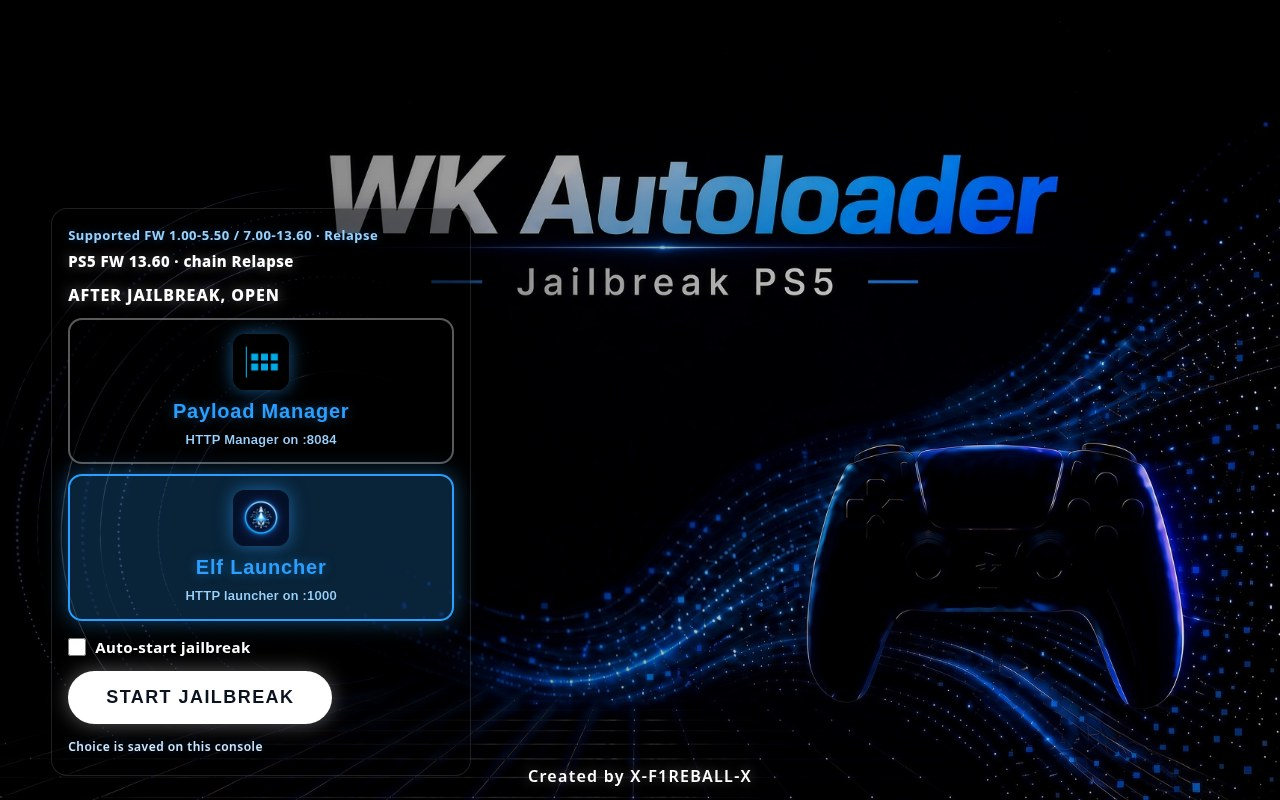
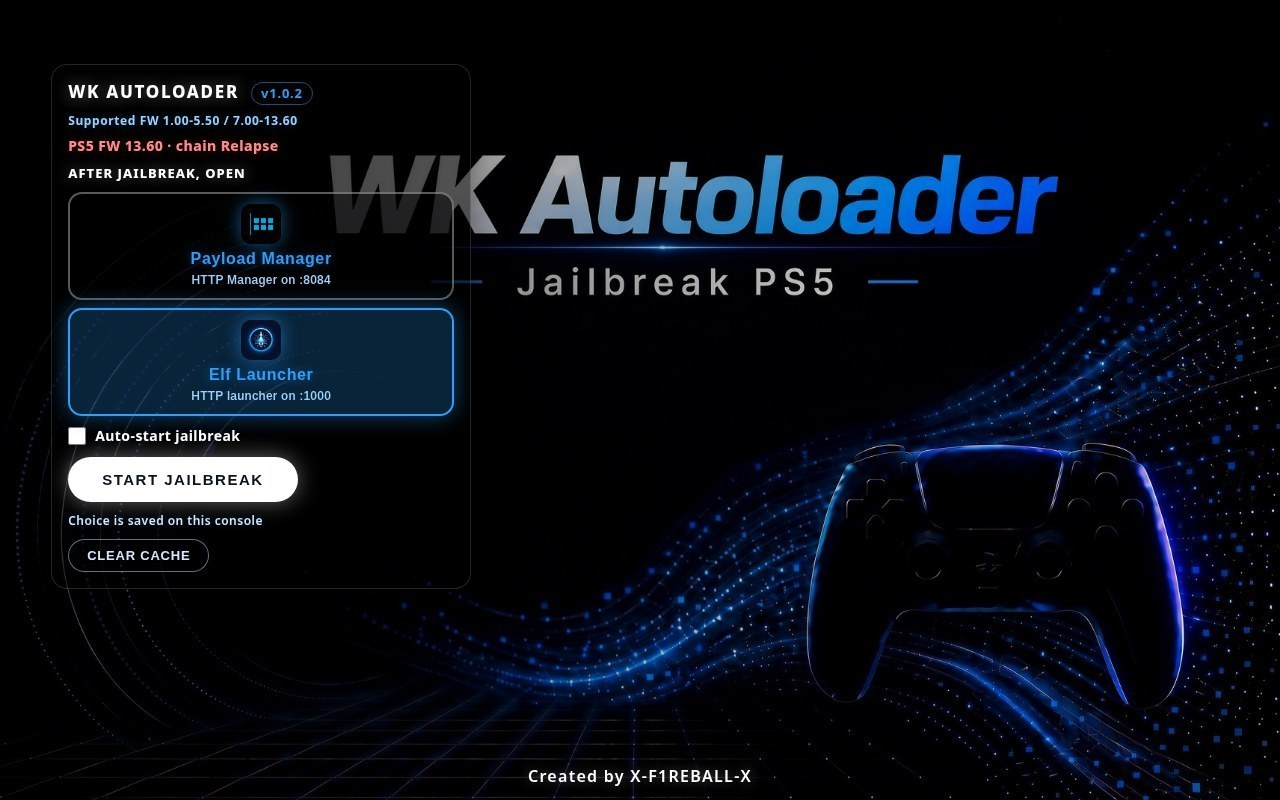
Release v1.0.2: Clear Cache only on Pages, drop from installer UI
Keep Clear Cache on docs/Pages splash for cache recovery previews.
Remove the button and logic from the bundled autoloader so the
installer ELF UI stays leaner. Bump to 1.0.2 and refresh README
screenshots showing Start Jailbreak with Clear Cache on Pages.

Changed region(s): [[0.0312, 0.0938, 0.375, 0.9375]]

diff --git a/frontend/autoloader/app.js b/frontend/autoloader/app.js
@@ -1512,76 +1512,6 @@
   }
 
 
-  /* Clear Application Cache + origin storage, then reload.
-     On the installer host also hits /clear-webkit-data (OS WebKit wipe).
-     Uses only PS5-WebKit-safe APIs (no Cache Storage / async await). */
-  var clearCacheReloading = false;
-  function clearClientCaches() {
-    try {
-      if (window.localStorage) localStorage.clear();
-    } catch (e) { }
-    try {
-      if (window.sessionStorage) sessionStorage.clear();
-    } catch (e) { }
-    try {
-      if (typeof applicationCache !== 'undefined' && applicationCache) {
-        try {
-          if (applicationCache.status === applicationCache.UPDATEREADY) {
-            applicationCache.swapCache();
-          }
-        } catch (e2) { }
-        try { applicationCache.update(); } catch (e3) { }
-      }
-    } catch (e4) { }
-  }
-  function reloadAfterClearCache() {
-    if (clearCacheReloading) return;
-    clearCacheReloading = true;
-    try {
-      location.reload(true);
-    } catch (e) {
-      try { location.href = String(location.href).split('#')[0]; } catch (e2) { }
-    }
-  }
-  function runClearCache() {
-    var ids = ['clearCacheBtn', 'clearCacheBtnProgress'];
-    for (var i = 0; i < ids.length; i++) {
-      var b = document.getElementById(ids[i]);
-      if (b) {
-        b.disabled = true;
-        b.textContent = 'Clearing\u2026';
-      }
-    }
-    clearClientCaches();
-    var xhrStarted = false;
-    try {
-      var x = new XMLHttpRequest();
-      x.open('GET', '/clear-webkit-data', true);
-      x.timeout = 8000;
-      x.onreadystatechange = function () {
-        if (x.readyState === 4) reloadAfterClearCache();
-      };
-      x.onerror = function () { reloadAfterClearCache(); };
-      x.ontimeout = function () { reloadAfterClearCache(); };
-      xhrStarted = true;
-      x.send();
-    } catch (e) { }
-    setTimeout(reloadAfterClearCache, xhrStarted ? 8500 : 350);
-  }
-  function bindClearCacheButtons() {
-    var ids = ['clearCacheBtn', 'clearCacheBtnProgress'];
-    for (var i = 0; i < ids.length; i++) {
-      (function (id) {
-        var btn = document.getElementById(id);
-        if (!btn) return;
-        btn.addEventListener('click', function () {
-          if (clearCacheReloading) return;
-          runClearCache();
-        });
-      })(ids[i]);
-    }
-  }
-
   function bindLauncherChoiceUi() {
     launcherChoice = loadLauncherChoice();
     updateDetectUi();
@@ -1680,5 +1610,4 @@
      before arming the exploit. A saved Auto-start preference arms a short
      cancellable countdown instead. */
   window.addEventListener('load', bindLauncherChoiceUi);
-  window.addEventListener('load', bindClearCacheButtons);
 })();

diff --git a/docs/index.html b/docs/index.html
@@ -13,7 +13,7 @@
 
   <div id="splash" aria-hidden="false">
     <div id="launcherChoice" role="group" aria-label="Post-jailbreak launcher">
-      <p class="splash-brand">WK Autoloader <span class="splash-ver">v1.0.1</span></p>
+      <p class="splash-brand">WK Autoloader <span class="splash-ver">v1.0.2</span></p>
       <p class="support-title">Supported FW 1.00-5.50 / 7.00-13.60</p>
       <p class="detect-title" id="detectMsg">Detecting console...</p>
       <p class="choice-title">After jailbreak, open</p>
@@ -44,7 +44,7 @@
 
   <main id="loader" hidden>
     <img id="appLogo" src="logo.png" alt="" width="72" height="72" />
-    <p id="titleMsg">WK Autoloader <span id="appVer">v1.0.1</span></p>
+    <p id="titleMsg">WK Autoloader <span id="appVer">v1.0.2</span></p>
     <p id="metaMsg">FW - · chain -</p>
     <p id="statusMsg">Jailbreak started</p>
     <div id="progressContainer">

diff --git a/frontend/autoloader/index.html b/frontend/autoloader/index.html
@@ -36,7 +36,6 @@
       <button type="button" id="startJailbreak" class="start-btn">Start Jailbreak</button>
       <button type="button" id="cancelAutoStart" class="cancel-auto-btn" hidden>Cancel</button>
       <p class="choice-hint">Choice is saved on this console</p>
-      <button type="button" id="clearCacheBtn" class="clear-cache-btn">Clear Cache</button>
     </div>
   </div>
 
@@ -54,7 +53,6 @@
     <p id="elapsedMsg">Elapsed 0:00</p>
     <div id="successMsg"><span class="check" aria-hidden="true"></span>Jailbreak completed successfully</div>
     <div id="failMsg">Jailbreak failed - restart your console</div>
-    <button type="button" id="clearCacheBtnProgress" class="clear-cache-btn progress-clear">Clear Cache</button>
     <div id="progressLabel" hidden>Jailbreak in progress</div>
     <div id="logWrapper" hidden>
       <div id="logContainer"></div>

diff --git a/frontend/autoloader/style.css b/frontend/autoloader/style.css
@@ -936,29 +936,3 @@ body.fail #progressPct { color: #fca5a5; }
   text-shadow: none;
 }
 
-.clear-cache-btn {
-  -webkit-appearance: none;
-  appearance: none;
-  cursor: pointer;
-  margin-top: 10px;
-  padding: 8px 18px;
-  border-radius: 999px;
-  border: 1px solid rgba(154,210,255,0.55);
-  background: rgba(0,0,0,0.4);
-  color: #cfe8ff;
-  font-size: 13px;
-  font-weight: 700;
-  letter-spacing: 0.06em;
-  text-transform: uppercase;
-  -webkit-box-shadow: none;
-  box-shadow: none;
-}
-.clear-cache-btn:disabled {
-  opacity: 0.5;
-  cursor: default;
-}
-.clear-cache-btn.progress-clear {
-  margin-top: 16px;
-  position: relative;
-  z-index: 2;
-}

diff --git a/include/wkali.h b/include/wkali.h
@@ -3,7 +3,7 @@
 /* Base version of the WebKit Autoloader (WKAL) content.
  * Bump this when the autoloader frontend changes - it triggers the app-cache
  * update and also marks the matching WKALI installer build. */
-#define WKAL_VERSION "1.0.1"
+#define WKAL_VERSION "1.0.2"
 
 /* Full build version (stable: <base>, dev: <base>-dev-<hash|timestamp>),
  * generated by tools/gen_version.py - see include/wkali_version.h */

diff --git a/src/main.c b/src/main.c
@@ -10,7 +10,7 @@
  * This file handles: process init, signal setup, MHD lifecycle, shutdown.
  */
 
-/* Release tree marker: v1.0.1. */
+/* Release tree marker: v1.0.2. */
 #include <errno.h>
 #include <fcntl.h>
 #include <microhttpd.h>

diff --git a/README.md b/README.md
@@ -2,7 +2,7 @@
 
 PS5 homebrew: jailbreak UI on port **1022**. Chains: **umtx2** (1–5.xx), **relapse** (7.00–13.60).
 
-Current release: **[v1.0.1](https://github.com/X-F1REBALL-X/wk-autoloader-relapse/releases/tag/v1.0.1)** — download `installer.elf`.
+Current release: **[v1.0.2](https://github.com/X-F1REBALL-X/wk-autoloader-relapse/releases/tag/v1.0.2)** — download `installer.elf`.
 
 ## Screenshots
 
@@ -21,7 +21,7 @@ Current release: **[v1.0.1](https://github.com/X-F1REBALL-X/wk-autoloader-relaps
 
 ## Use
 
-1. Download `installer.elf` from **[v1.0.1](https://github.com/X-F1REBALL-X/wk-autoloader-relapse/releases/tag/v1.0.1)**.
+1. Download `installer.elf` from **[v1.0.2](https://github.com/X-F1REBALL-X/wk-autoloader-relapse/releases/tag/v1.0.2)**.
 2. Send it to elfldr (`9021`).
 3. Open the home icon or `http://PS5_IP:1022`.
 4. Pick **Payload Manager** (`:8084`) or **Elf Launcher** (`:1000`), then **Start Jailbreak**.

diff --git a/pc-host/README.md b/pc-host/README.md
@@ -4,7 +4,7 @@ A zero-dependency Python script that turns your PC into a local DNS + HTTPS
 server for the PS5 WebKit Autoloader. No `pip install` required - only the
 Python 3 standard library.
 
-> Release tree marker: **v1.0.1**.
+> Release tree marker: **v1.0.2**.
 
 ## What it does
 
